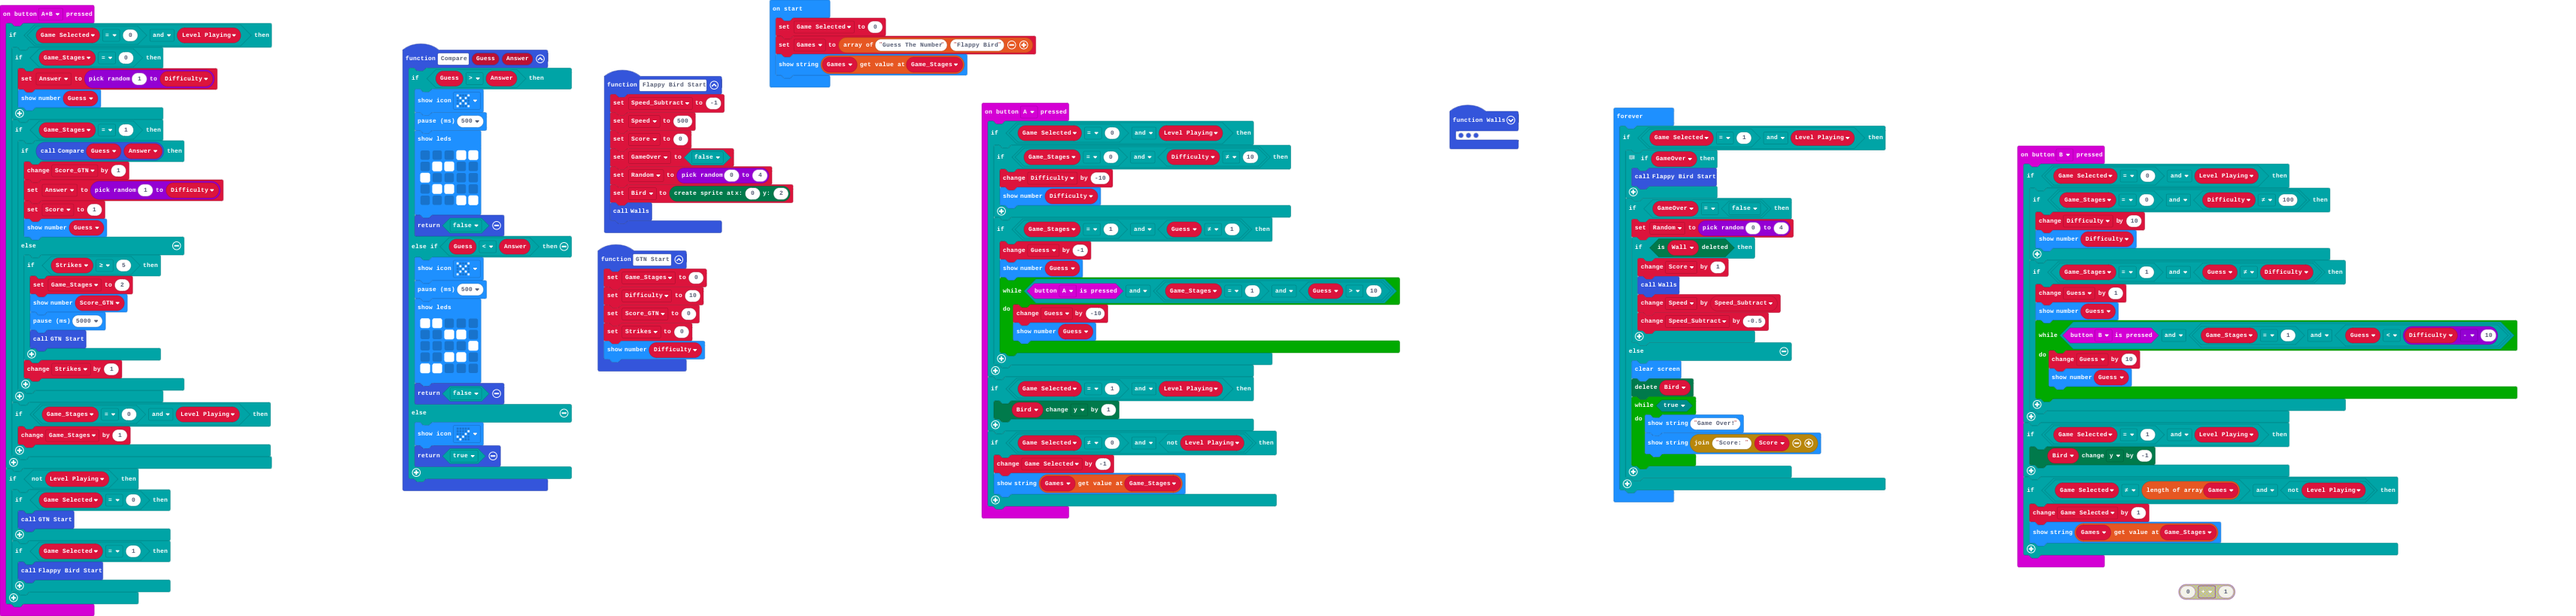
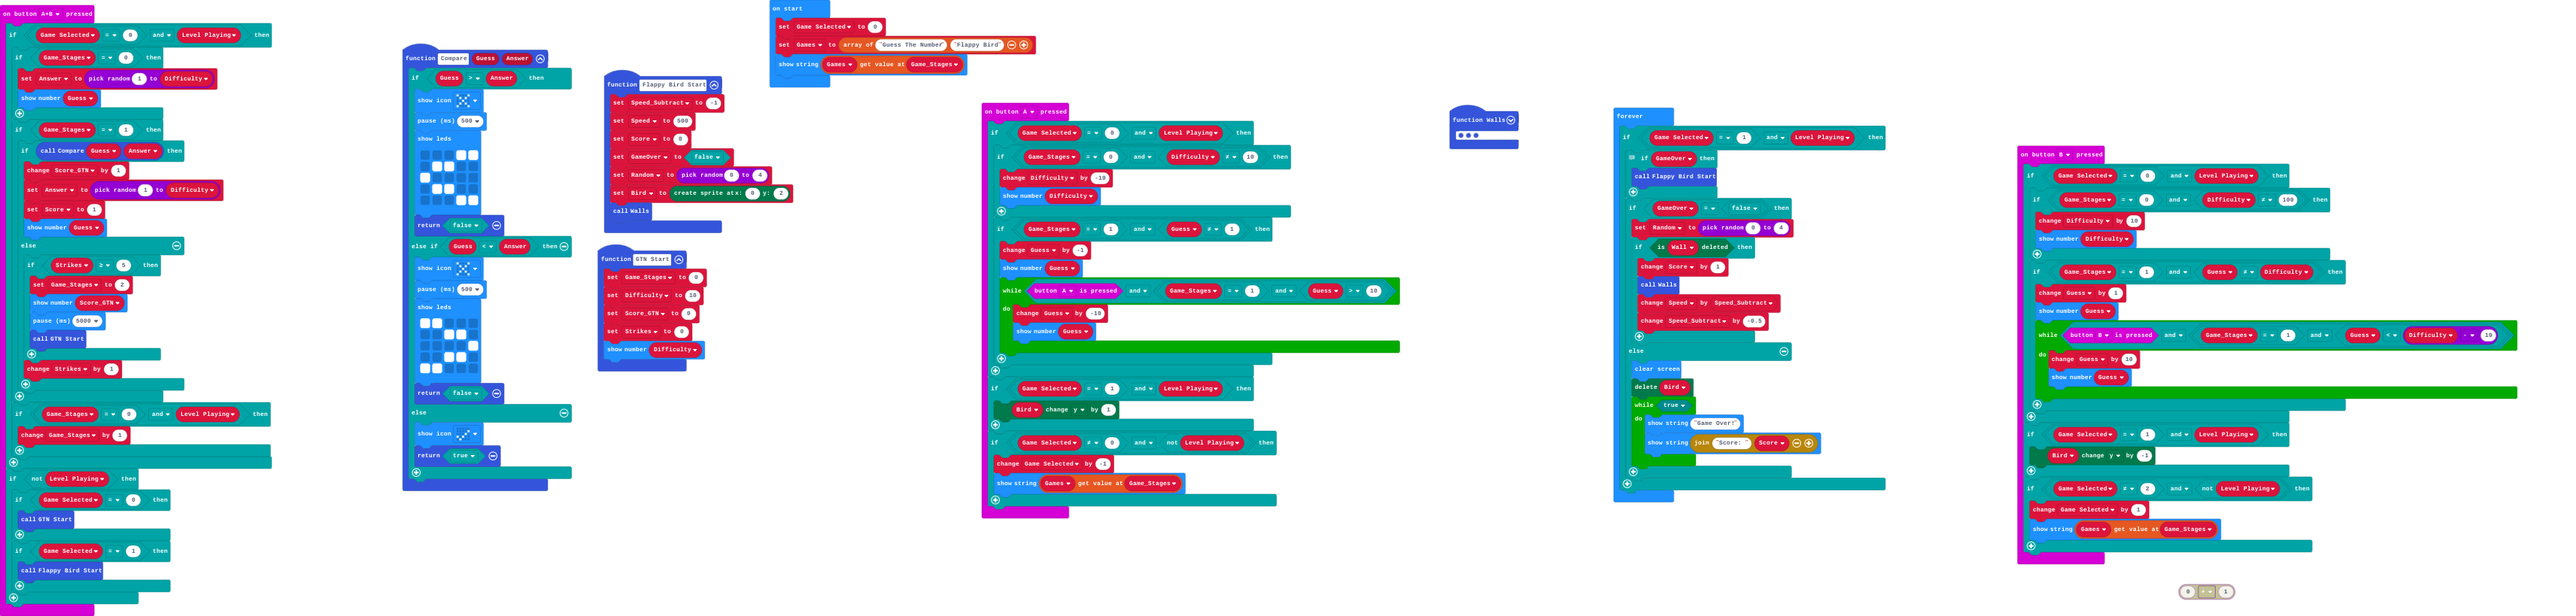
Update main.blocks, main.ts

Changed region(s): [[0.7812, 0.7631, 0.9375, 0.9463]]

diff --git a/main.ts b/main.ts
@@ -118,7 +118,7 @@ input.onButtonPressed(Button.B, function () {
     if (Game_Selected == 1 && Level_Playing) {
         Bird.change(LedSpriteProperty.Y, -1)
     }
-    if (Game_Selected != Games.length && !(Level_Playing)) {
+    if (Game_Selected != 2 && !(Level_Playing)) {
         Game_Selected += 1
         basic.showString("" + (Games[Game_Stages]))
     }
